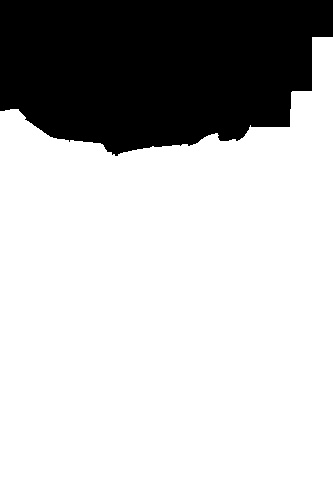
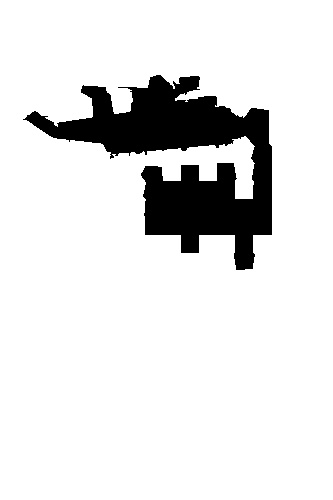
Implemented better color feature

Changed region(s): [[0.0, 0.0, 1.0, 0.54], [0.3303, 0.3, 0.3604, 0.33]]

diff --git a/algorithms/algorithms.py b/algorithms/algorithms.py
@@ -2,22 +2,27 @@ import cv2
 import numpy as np
 import slic
 import clustering
+import features
 from os import listdir, path
 import maxflow
 import matplotlib.pyplot as plt
 from skimage.segmentation import mark_boundaries
 from skimage.segmentation import find_boundaries
+from sklearn.mixture import GaussianMixture
 
 
 class Algorithms:
     def __init__(self, image_paths):
         self.images = image_paths                                # Relative paths to the images to be used
         # Each dictionary stores the data for each image using its image path as a key
-        self.imgs_float64 = dict()                               # Float64 representation of the image
+        self.imgs_bgr = dict()                               # Float64 representation of the image
         self.imgs_segmentation = dict()                          # Stores for each pixel its superpixel it belongs to
         self.imgs_segment_ids = dict()                           # List of superpixel indices
         self.imgs_segment_neighbors = dict()                     # Stores for each superpixel a list of its neighbors
         self.imgs_segment_centers = dict()
+
+        self.imgs_segment_color_feature = dict()
+
         self.imgs_segment_histograms_hsv = dict()                # Stores for each superpixel a hsv histogram
         self.imgs_segment_sift_keypoints = dict()
         self.imgs_segment_sift_descriptors = dict()
@@ -30,11 +35,11 @@ class Algorithms:
 
     # generate super-pixel segments for all images using SLIC
     def compute_superpixels_slic(self, num_segments, compactness=10.0, max_iter=10, sigma=0):
-        for image in self.images:
-            self.imgs_float64[image] = slic.read_image_as_float64(image)
-            self.imgs_segmentation[image] = slic.get_segmented_image(self.imgs_float64[image], num_segments,
-                                                                     compactness, max_iter, sigma)
-            self.imgs_segment_ids[image] = np.unique(self.imgs_segmentation[image])
+        for img in self.images:
+            self.imgs_bgr[img] = cv2.imread(img, flags=cv2.IMREAD_COLOR)
+            self.imgs_segmentation[img] = slic.get_segmented_image(self.imgs_bgr[img], num_segments,
+                                                                   compactness, max_iter, sigma)
+            self.imgs_segment_ids[img] = np.unique(self.imgs_segmentation[img])
 
     # compute the neighbor segments of each segment
     def compute_neighbors(self):
@@ -62,7 +67,7 @@ class Algorithms:
     # also generates normalized versions
     def compute_histograms_hsv(self, bins_H=20, bins_S=20):
         for img in self.images:
-            hsv = cv2.cvtColor(self.imgs_float64[img].astype('float32'), cv2.COLOR_BGR2HSV)
+            hsv = cv2.cvtColor(self.imgs_bgr[img].astype('float32'), cv2.COLOR_BGR2HSV)
             self.imgs_histograms_hsv[img] = np.float32(cv2.calcHist([hsv], [0, 1], None, [bins_H, bins_S], [0, 360, 0, 1]))
 
             self.imgs_segment_histograms_hsv[img] = \
@@ -94,18 +99,23 @@ class Algorithms:
 
     def compute_feature_vectors(self, mode='color'):
         for img in self.images:
-            self.imgs_segment_feature_vectors[img] = [[] for i in range(len(self.imgs_segment_ids[img]))]
+            self.imgs_segment_feature_vectors[img] = [[] for id in self.imgs_segment_ids[img]]
             for segment in self.imgs_segment_ids[img]:
                 # If mode is color then feature vector is the flattened color histogram
                 if mode is 'color':
-                    self.imgs_segment_feature_vectors[img][segment] = self.imgs_segment_histograms_hsv_normalized[img][
-                        segment].flatten()
-                if mode is 'sift':
-                    self.imgs_segment_feature_vectors[img][segment] = self.imgs_segment_sift_descriptors[img][segment]
-                if mode is 'both':
-                    color_feature = self.imgs_segment_histograms_hsv_normalized[img][segment].flatten()
-                    sift_feature = self.imgs_segment_sift_descriptors[img][segment]
-                    self.imgs_segment_feature_vectors[img][segment] = np.concatenate((color_feature, sift_feature))
+                    feature = features.get_color_feature(self.imgs_bgr[img], self.imgs_segmentation[img] == segment)
+                elif mode is 'hsv':
+                    feature = self.imgs_segment_histograms_hsv_normalized[img][segment].flatten()
+                elif mode is 'sift':
+                    feature = self.imgs_segment_sift_descriptors[img][segment]
+                elif mode is 'both':
+                    hsv_vector = self.imgs_segment_histograms_hsv_normalized[img][segment].flatten()
+                    sift_vector = self.imgs_segment_sift_descriptors[img][segment]
+                    feature = np.concatenate((hsv_vector, sift_vector))
+                else:
+                    print('Unknown feature mode: ' + mode)
+                    return
+                self.imgs_segment_feature_vectors[img][segment] = feature
 
     # To be used after superpixel segmentation and feature extraction.
     # Splits the images up in num_clusters using the given method.
@@ -132,6 +142,17 @@ class Algorithms:
             segmentation = segmentations[(indices[i - 1] % indices[-1]):indices[i]]
             # For each pixel in superpixel segmentation look up the cluster of its superpixel
             self.imgs_cosegmented[img] = [segmentation[pixel] for pixel in self.imgs_segmentation[img]]
+
+    def perform_graph_cut_GMM(self):
+        # group the foreground and background segments' feature vectors in one list
+        feature_vectors_fg = [self.imgs_segment_feature_vectors[img][fg_segment] for img in self.images for fg_segment
+                              in self.imgs_foreground_segments[img]]
+        feature_vectors_bg = [self.imgs_segment_feature_vectors[img][bg_segment] for img in self.images for bg_segment
+                              in self.imgs_background_segments[img]]
+
+        GMM = GaussianMixture(6).fit(feature_vectors_fg)
+        print(GMM)
+        exit()
 
     # To be used after superpixel segmentation and feature extraction
     # Segments the image using graph cut
@@ -204,7 +225,7 @@ class Algorithms:
     # write the segmented images to specified folder
     def save_segmented_images(self, folder):
         for img in self.imgs_segmentation:
-            slic.save_superpixel_image(self.imgs_float64[img], self.imgs_segmentation[img],
+            slic.save_superpixel_image(self.imgs_bgr[img], self.imgs_segmentation[img],
                                        folder + '/' + img.split('/')[-1])
 
     # Shows a plot of the histogram of the entire image at image_path or one of its segments
@@ -227,7 +248,7 @@ class Algorithms:
             plt.title('segmentation')
             plt.imshow(self.imgs_cosegmented[img])
             plt.subplot(1, 2, 1), plt.xticks([]), plt.yticks([])
-            superpixels = mark_boundaries(self.imgs_float64[img], self.imgs_segmentation[img])
+            superpixels = mark_boundaries(self.imgs_bgr[img], self.imgs_segmentation[img])
             marking = cv2.imread(folder_path + 'markings/' + img.split('/')[-1])
             if marking is not None:
                 superpixels[marking[:, :, 0] < 200] = (1, 0, 0)
@@ -258,7 +279,8 @@ if __name__ == '__main__':
 
     # Extract features
     alg.compute_sift(keypoint_size=32.0)
-    alg.compute_histograms_hsv(bins_H=30, bins_S=1)
+    alg.compute_histograms_hsv(bins_H=20, bins_S=20)
+    alg.compute_feature_vectors(mode='color')
 
     # Retrieve foreground and background segments from marking images in markings folder
     # marking images should be white with red pixels indicating foreground and blue pixels indicating background and
@@ -271,18 +293,13 @@ if __name__ == '__main__':
             alg.set_fg_segments(image, fg_segments)
             alg.set_bg_segments(image, bg_segments)
 
-    alg.compute_feature_vectors(mode='both')
-
-    # alg.perform_clustering(2, 'spectral')
-    alg.perform_graph_cut()
+    # alg.perform_clustering(6, 'kmeans')
+    alg.perform_graph_cut_GMM()
 
     for image in image_paths:
         cv2.imwrite('output/masks/'+image.split('/')[-1], np.uint8(alg.get_coseg_mask(image, 0)*255))
 
     alg.plot_cosegmentations(folder_path)
-
-    # alg.show_histogram('images/bear1.jpg')
-    # alg.show_histogram('images/bear1.jpg', 1)
 
 # TODO
 

diff --git a/algorithms/features.py b/algorithms/features.py
@@ -1,0 +1,21 @@
+import cv2
+import numpy as np
+from scipy.stats import entropy
+
+
+# Calculates a color feature vector consisting of means of B, G, R, H, S, V,
+# and a histogram and their entropy of Hue (5 bins) and Saturation (3bins)
+def get_color_feature(image_bgr, mask):
+    image_hsv = cv2.cvtColor(image_bgr, cv2.COLOR_BGR2HSV)
+    mask = np.uint8(mask)
+
+    means_BGR = np.asarray(cv2.mean(image_bgr, mask)[0:3])
+    means_HSV = np.asarray(cv2.mean(image_hsv, mask)[0:3])
+
+    hist_H = cv2.calcHist([image_hsv], [0], mask, [5], [0, 181]).flatten()
+    entropy_H = entropy(hist_H)
+
+    hist_S = cv2.calcHist([image_hsv], [1], mask, [3], [0, 256]).flatten()
+    entropy_S = entropy(hist_S)
+
+    return np.concatenate((means_BGR, means_HSV, hist_H, [entropy_H], hist_S, [entropy_S])).astype('float32')
